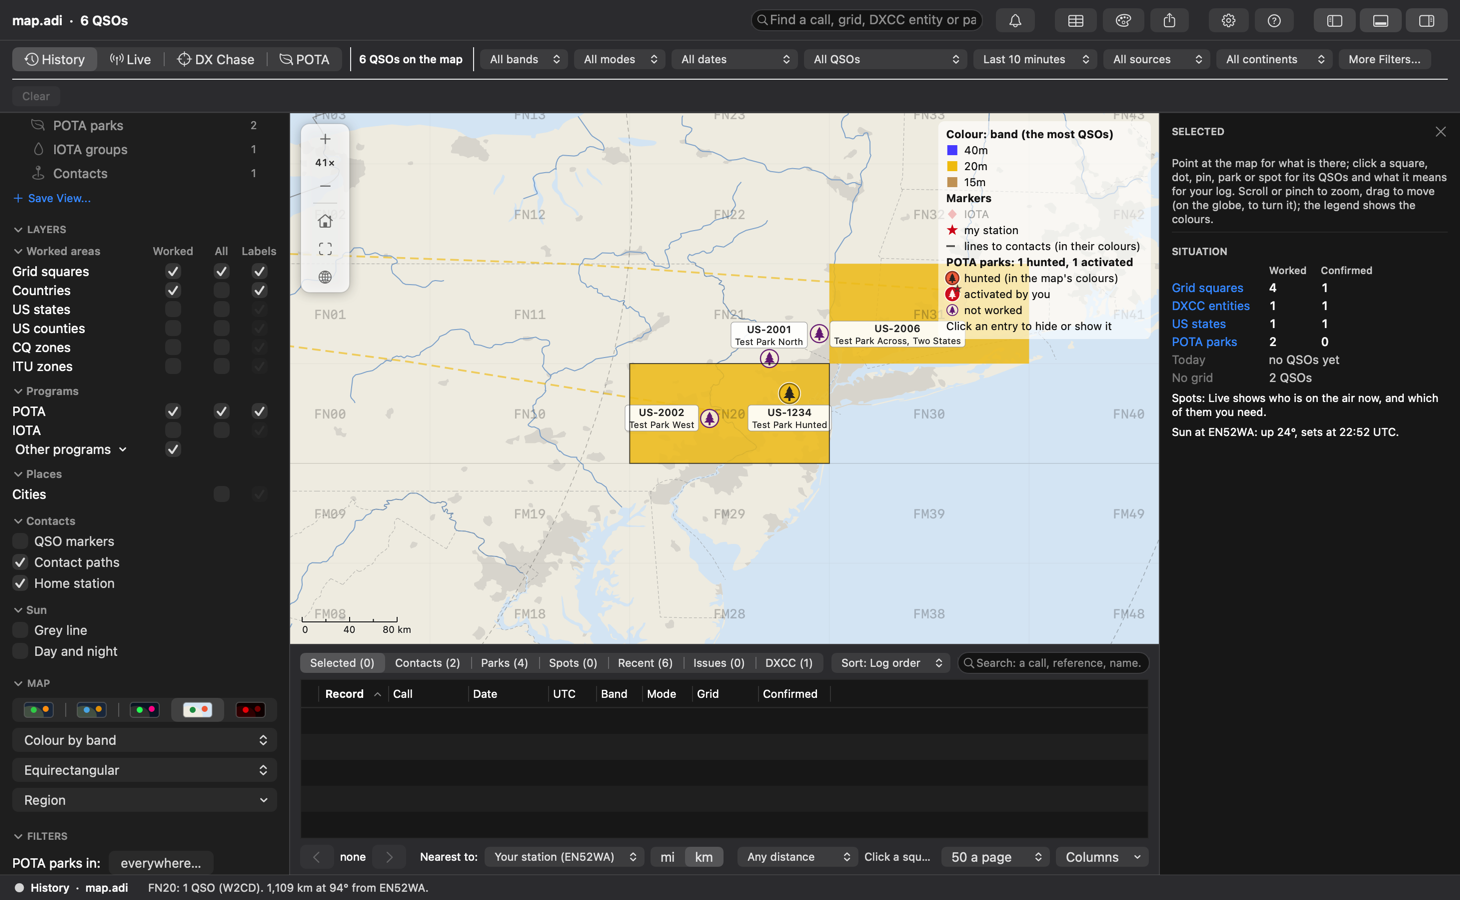
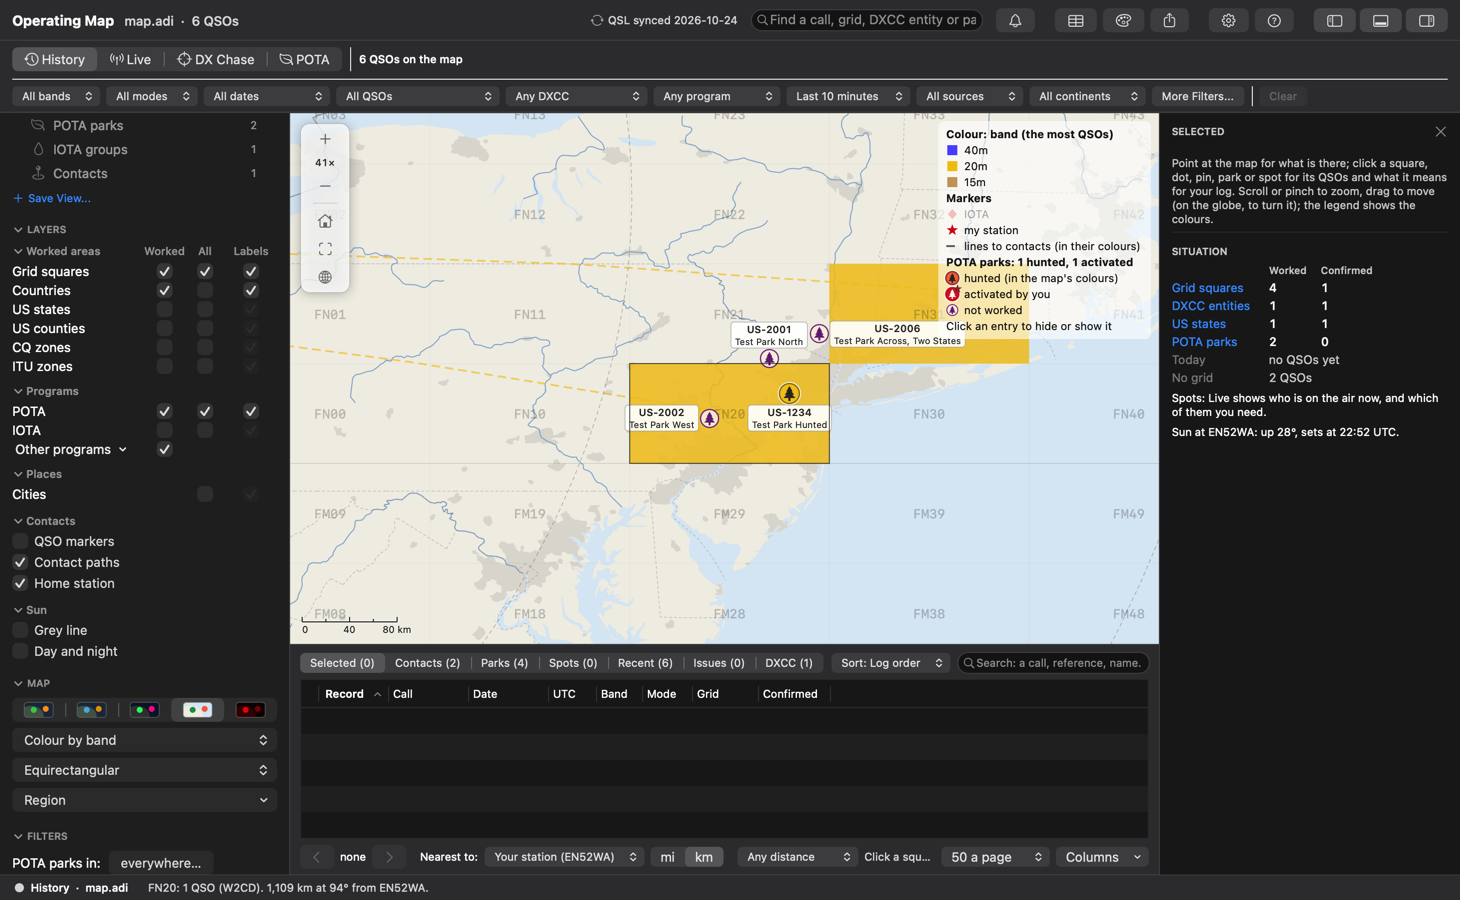
Map: title line and QSL synced in the header; Live's DXCC and Spots menus; Clear (n)
- The header says Operating Map, then the station, log and QSOs; QSL synced gives the latest
  confirmation download (LoTW, QRZ.com, eQSL), a click opening QSL Sync.
- Live's toolbar: a DXCC menu (the Quick View by what the spots mean for your DXCC) and a Spots
  menu (any program, POTA only, new POTA parks, plain DX only), both saying what they filter.
- Clear counts the filters on and lists them in its tooltip; in Live it clears the spots'
  program and source too.
- The prefix popups draw their title in the room the popup has (AppKit gives the item's own
  width), and are swapped in before their actions are set (a control's action is its cell's).

diff --git a/src/plugin/Map.mm b/src/plugin/Map.mm
@@ -12,6 +12,7 @@
 #import "PotaParks.h"
 #import "PluginHost.h"
 #import "Spots.h"
+#import "Uploads.h"
 #import "ToolWindow.h"
 #import <UniformTypeIdentifiers/UniformTypeIdentifiers.h>
 #include "adif_detail.h"
@@ -154,6 +155,8 @@ static NSAttributedString *treeMark(NSColor *color) {
     return t;
 }
 - (NSRect)drawTitle:(NSAttributedString *)title withFrame:(NSRect)frame inView:(NSView *)view {
+    // The frame is the item's own title's width: the prefix needs the room the popup has (less its arrows).
+    if (self.prefix.length && self.indexOfSelectedItem > 0) frame.size.width = std::max(frame.size.width, NSWidth(view.bounds) - frame.origin.x - 18);
     return [super drawTitle:[self shown:title] withFrame:frame inView:view];
 }
 - (NSSize)cellSize {
@@ -476,6 +479,8 @@ struct {
     NSButton *liveLabel = nil;  // the footer's live status, a dot of its colour; clicked, the feeds' state
     NSPopUpButton *continentPopup = nil;  // the toolbar's continent (one of More Filters' continents)
     NSPopUpButton *spotAgeBar = nil, *spotSourceBar = nil;  // Live's: how new the spots, from which source (as Sources and Filters)
+    NSPopUpButton *dxccBar = nil, *potaBar = nil;          // Live's: which DXCC needs (the Quick View), which program
+    NSButton *synced = nil;                                 // the header's last QSL Sync download, a click opens it
     NSStackView *chips = nil;             // the filters on that the toolbar doesn't show, each a tag that removes it
     NSButton *centerButton = nil;
     NSButton *greyLineBox = nil, *dayNightBox = nil;  // the sidebar's Sun boxes (Style Options has them too)
@@ -592,6 +597,8 @@ void fillBell();
 void fillBellMenu(NSMenu *menu);
 void fillHomeMenu(NSMenu *menu);
 void fillViewsMenu(NSMenu *menu);
+void fillSynced();
+void fillDxccPotaBars();
 int lensOfView(int view);
 void showList(const std::vector<size_t> &qsos, ADIFMapHit::Kind kind);
 void showListKind(int kind);
@@ -2067,7 +2074,19 @@ void refresh() {
         showWatchButton(ADIFMapHit());
         mw.actions.needsLayout = YES;
         std::string call = setting("stationCall");
-        mw.summaryLabel.stringValue = ADIFString((call.empty() ? "" : call + "  \u00B7  ") + documentName() + "  \u00B7  " + plural(mw.data.qsos.size(), "QSO"));
+        {  // the title line: what this is, then the station, the log and its QSOs
+            NSMutableAttributedString *line = [[NSMutableAttributedString alloc]
+                initWithString:T(@"Operating Map")
+                    attributes:@{NSFontAttributeName : [NSFont systemFontOfSize:NSFont.systemFontSize + 1 weight:NSFontWeightBold]}];
+            [line appendAttributedString:[[NSAttributedString alloc]
+                                             initWithString:ADIFString("   " + (call.empty() ? "" : call + "  \u00B7  ") + documentName() + "  \u00B7  " +
+                                                                       plural(mw.data.qsos.size(), "QSO"))
+                                                 attributes:@{NSFontAttributeName : [NSFont systemFontOfSize:NSFont.systemFontSize weight:NSFontWeightMedium],
+                                                              NSForegroundColorAttributeName : NSColor.secondaryLabelColor}]];
+            mw.summaryLabel.attributedStringValue = line;
+            mw.summaryLabel.toolTip = line.string;
+        }
+        fillSynced();
         if (!live()) {
             // History: the QSOs the map shows, and the dates they span.
             std::string first, last;
@@ -2327,10 +2346,26 @@ void fillFilterChips() {
 void updateFilterButton() {
     size_t n = placeKinds(savedPlaceFilter());
     mw.moreFilters.title = n ? [NSString stringWithFormat:T(@"More Filters (%zu)..."), n] : T(@"More Filters...");
-    // How many filters are on, on the bar too: the QSOs shown are not all of them, card open or not.
-    size_t on = n + (mw.band.indexOfSelectedItem > 0) + (mw.mode.indexOfSelectedItem > 0) + (mw.dates.indexOfSelectedItem > 0) +
-                (mw.confirmed.indexOfSelectedItem > 0);
-    mw.clearFilters.enabled = on > 0 || (live() && mw.spotLens > 0);
+    // Clear says how many filters are on, and its tooltip which, in a line ("20m · FT8 · New band").
+    std::vector<std::string> active;
+    for (NSPopUpButton *p : {mw.band, mw.mode})
+        if (p.indexOfSelectedItem > 0) active.push_back(ADIFStd(p.titleOfSelectedItem));
+    if (!live()) {
+        for (NSPopUpButton *p : {mw.dates, mw.confirmed})
+            if (p.indexOfSelectedItem > 0) active.push_back(ADIFStd(p.titleOfSelectedItem));
+    } else {
+        if (mw.spotLens > 0 && mw.quickRows && (size_t)mw.spotLens < mw.quickRows.rows.size()) active.push_back(mw.quickRows.rows[(size_t)mw.spotLens].title);
+        std::string program = setting("mapSpotsProgram");
+        if (!program.empty()) active.push_back(program == "-" ? tr("Plain DX only") : program);
+        if (!setting("mapSpotsHidden").empty() && mw.spotSourceBar.indexOfSelectedItem > 0) active.push_back(ADIFStd(mw.spotSourceBar.titleOfSelectedItem));
+    }
+    if (n) active.push_back(trp("{n} more filter", "{n} more filters", (long long)n));
+    std::string list;
+    for (const std::string &a : active) list += (list.empty() ? "" : "  \u00B7  ") + a;
+    mw.clearFilters.enabled = !active.empty();
+    mw.clearFilters.title = active.empty() ? T(@"Clear") : TF(@"Clear ({n})", @{@"n" : @(active.size())});
+    mw.clearFilters.toolTip = active.empty() ? T(@"Show every QSO again: all bands, modes, dates and places (and in Live, every spot)")
+                                             : ADIFString(trf("Clear: {filters}", {{"filters", list}}));
     fillContinentPopup();
     fillFilterChips();
 }
@@ -2800,6 +2835,7 @@ void refreshSpots() {
                                               mw.liveLabel.font);
         mw.liveLabel.toolTip = show ? ADIFString(spotfeeds::status()) : nil;  // each feed: what it did, and when
         [mw.spotAgeBar selectItemAtIndex:number("mapSpotsAge", 1, 2)];
+        fillDxccPotaBars();
         {  // the source: all, one, or "2 sources"
             std::string hidden = setting("mapSpotsHidden");
             std::vector<NSInteger> shown;
@@ -2814,7 +2850,7 @@ void refreshSpots() {
             }
         }
         fillQuickViews();
-        fillFilterChips();
+        updateFilterButton();  // Clear and the tags, as the spots' filters are
     }
     mw.view.legendSpotBands = spotBands;
     [mw.view setSpots:marks now:now maxAge:f.maxAge];
@@ -4502,7 +4538,7 @@ void syncControls() {
     mw.workflow.selectedSegment = wf;
     mw.spotsSection.hidden = wf < 1;
     mw.dates.hidden = mw.confirmed.hidden = wf >= 1;  // the spots don't follow them (a tag says when they're on)
-    mw.spotAgeBar.hidden = mw.spotSourceBar.hidden = wf < 1;
+    mw.spotAgeBar.hidden = mw.spotSourceBar.hidden = mw.dxccBar.hidden = mw.potaBar.hidden = wf < 1;
 
     mw.spotLens = wf >= 1 ? lensOfView(quickView()) : 0;
     applyViewFilters();
@@ -5193,6 +5229,36 @@ void findTyped() {
     [mw.findMenu popUpMenuPositioningItem:nil atLocation:NSMakePoint(0, NSMaxY(mw.findField.bounds) + 4) inView:mw.findField];
 }
 
+// The header's QSL Sync: when confirmations were last downloaded (the latest of the services),
+// a click opening QSL Sync.
+void fillSynced() {
+    if (!mw.synced) return;
+    std::string latest, tip;
+    for (const auto &[key, name] : std::vector<std::pair<const char *, const char *>>{
+             {"lastDownloadLoTW", "LoTW"}, {"lastDownloadQRZ", "QRZ.com"}, {"lastDownloadEQSL", "eQSL"}}) {
+        std::string at = setting(key);  // "YYYY-MM-DD HH:MM UTC"
+        latest = std::max(latest, at);
+        tip += std::string(tip.empty() ? "" : "\n") + name + ": " + (at.empty() ? tr("never") : at);
+    }
+    mw.synced.title = latest.empty() ? T(@"QSL: never synced") : TF(@"QSL synced {when}", @{@"when" : ADIFString(latest.substr(0, 10))});
+    mw.synced.toolTip = ADIFString(tr("Confirmations last downloaded (QSL Sync); click to open it") + "\n" + tip);
+}
+
+// Live's DXCC and POTA menus, as the Quick View and the spots' program are.
+void fillDxccPotaBars() {
+    if (!mw.dxccBar) return;
+    static const int kDxccLens[] = {0, 1, 2, 3, 4, 8};  // the menu's items: the Quick View each chooses
+    NSInteger at = 0;
+    for (NSInteger i = 0; i < (NSInteger)std::size(kDxccLens); ++i)
+        if (kDxccLens[i] == mw.spotLens) at = i;
+    [mw.dxccBar selectItemAtIndex:at];
+    std::string program = setting("mapSpotsProgram");
+    [mw.potaBar selectItemAtIndex:program == "-" ? 3 : program == "POTA" ? (mw.spotLens == 5 ? 2 : 1) : 0];
+    for (NSPopUpButton *p in @[ mw.dxccBar, mw.potaBar ]) [p invalidateIntrinsicContentSize];  // "DXCC: New band" is wider than "New band"
+    for (NSView *v = mw.dxccBar.superview; v; v = v.superview)
+        if ([v isKindOfClass:ADIFFlowView.class]) v.needsLayout = YES;
+}
+
 // ── The footer: what is under the pointer, and the workflow's state ──
 
 void showHover(const std::string &text) {
@@ -5379,6 +5445,35 @@ void cmdMap() {
             if (mw.spotAge) [mw.spotAge selectItemAtIndex:mw.spotAgeBar.indexOfSelectedItem];
             refreshSpots();
         });
+        mw.dxccBar = ADIFPopup(@[ @"Any DXCC", @"Needed on its band", @"New DXCC", @"New band", @"New mode", @"Worked before" ]);
+        mw.potaBar = ADIFPopup(@[ @"Any program", @"POTA only", @"New POTA parks", @"Plain DX only" ]);
+        for (NSPopUpButton *p in @[ mw.dxccBar, mw.potaBar ]) {  // "DXCC: New band", "Spots: POTA only" while they filter (before
+                                                                  // their actions: a control's action is its cell's)
+            NSMenu *items = p.menu;
+            ADIFPrefixPopUpCell *c = [[ADIFPrefixPopUpCell alloc] initTextCell:@"" pullsDown:NO];
+            p.cell = c;
+            c.menu = items;
+            c.prefix = p == mw.dxccBar ? T(@"DXCC:") : T(@"Spots:");
+            [c selectItemAtIndex:0];
+        }
+        mw.dxccBar.identifier = @"map.filter.dxccNeed";
+        mw.dxccBar.toolTip = T(@"The spots by what they mean for your DXCC (the Quick Views have them too)");
+        ADIFOnAction(mw.dxccBar, ^{
+            static const int kLens[] = {0, 1, 2, 3, 4, 8};
+            NSInteger i = std::clamp<NSInteger>(mw.dxccBar.indexOfSelectedItem, 0, 5);
+            chooseQuickView(kLens[i]);
+        });
+        mw.potaBar.identifier = @"map.filter.pota";
+        mw.potaBar.toolTip = T(@"POTA's spots: all of them with the rest, only POTA's, only parks you haven't worked, or none (plain DX spots, "
+                               @"no program); as Sources and Filters' program");
+        ADIFOnAction(mw.potaBar, ^{
+            NSInteger i = mw.potaBar.indexOfSelectedItem;
+            setSetting("mapSpotsProgram", i == 1 || i == 2 ? "POTA" : i == 3 ? "-" : "");
+            fillSpotsPopover();
+            if (i == 2) chooseQuickView(5);  // New POTA parks
+            else if (mw.spotLens == 5 || mw.spotLens == 6) chooseQuickView(0);
+            else refreshSpots();
+        });
         mw.spotSourceBar = ADIFPopup(@[ @"All sources" ]);
         for (adif::SpotSource src : kSpotSources) [mw.spotSourceBar addItemWithTitle:ADIFString(tr(adif::spotSourceName(src)))];
         mw.spotSourceBar.identifier = @"map.filter.source";
@@ -5523,7 +5618,13 @@ void cmdMap() {
         mw.moreFilters.identifier = @"map.filter.more";
         mw.clearFilters = smallButton(@"Clear", @"Show every QSO again: all bands, modes, dates and places (and in Live, every spot)", ^{
             for (NSPopUpButton *p in @[ mw.band, mw.mode, mw.dates, mw.confirmed ]) [p selectItemAtIndex:0];
-            if (live() && mw.spotLens > 0) chooseQuickView(0);
+            if (live()) {  // every spot again: any program and source too
+                setSetting("mapSpotsProgram", "");
+                setSetting("mapSpotsHidden", "");
+                fillSpotsPopover();
+                if (mw.spotLens > 0) chooseQuickView(0);
+                else refreshSpots();
+            }
             if (mw.viewSetConfirmed) {  // Needs confirmation's filter gone: All QSOs
                 mw.viewSetConfirmed = false;
                 setSetting("mapQuickView", "0");
@@ -5944,6 +6045,15 @@ void cmdMap() {
         mw.bell.menu = mw.bellMenu;  // right-click too
         ADIFOnAction(mw.bell, ^{ [mw.bellMenu popUpMenuPositioningItem:nil atLocation:NSMakePoint(0, NSMaxY(mw.bell.bounds) + 4) inView:mw.bell]; });
         fillBell();
+        mw.synced = [NSButton buttonWithTitle:@"" target:nil action:nil];
+        mw.synced.bordered = NO;
+        mw.synced.font = [NSFont systemFontOfSize:NSFont.smallSystemFontSize];
+        mw.synced.contentTintColor = NSColor.secondaryLabelColor;
+        mw.synced.image = [NSImage imageWithSystemSymbolName:@"arrow.triangle.2.circlepath" accessibilityDescription:nil];
+        mw.synced.imagePosition = NSImageLeading;
+        mw.synced.identifier = @"map.synced";
+        ADIFOnAction(mw.synced, ^{ uploads::cmdQslSync(); });
+        [mw.synced setContentCompressionResistancePriority:NSLayoutPriorityDefaultLow forOrientation:NSLayoutConstraintOrientationHorizontal];
         mw.findField = [[NSSearchField alloc] initWithFrame:NSZeroRect];
         mw.findField.placeholderString = T(@"Find a call, grid, DXCC entity or park");
         mw.findField.toolTip = T(@"Find on the map: a call (your QSOs with it, or its spot), a grid square, a DXCC entity you worked, a POTA park "
@@ -5959,8 +6069,11 @@ void cmdMap() {
         mw.findMenu.delegate = mw.listRows;
         mw.findField.menu = mw.findMenu;  // right-click: the results too
         ADIFOnAction(mw.findField, ^{ findTyped(); });
-        for (NSView *v in @[ mw.findField, mw.bell, logTable, styleButton, save, settings, help, mw.paneToggle[0], mw.paneToggle[1], mw.paneToggle[2] ])
+        for (NSView *v in @[ mw.synced, mw.findField, mw.bell, logTable, styleButton, save, settings, help, mw.paneToggle[0], mw.paneToggle[1],
+                             mw.paneToggle[2] ])
             [header addView:v inGravity:NSStackViewGravityTrailing];
+        [header setVisibilityPriority:NSStackViewVisibilityPriorityDetachOnlyIfNecessary forView:mw.synced];  // the first to go when narrow
+        fillSynced();
         [header setCustomSpacing:14 afterView:mw.findField];
         [header setCustomSpacing:20 afterView:mw.bell];
         [header setCustomSpacing:6 afterView:logTable];
@@ -5990,7 +6103,8 @@ void cmdMap() {
         mw.chips = [[NSStackView alloc] initWithFrame:NSZeroRect];
         mw.chips.spacing = 4;
         mw.chips.identifier = @"map.chips";
-        for (NSControl *c in @[ mw.band, mw.mode, mw.dates, mw.confirmed, mw.spotAgeBar, mw.spotSourceBar, mw.continentPopup, mw.moreFilters, mw.clearFilters ]) {
+        for (NSControl *c in @[ mw.band, mw.mode, mw.dates, mw.confirmed, mw.dxccBar, mw.potaBar, mw.spotAgeBar, mw.spotSourceBar, mw.continentPopup, mw.moreFilters,
+                                mw.clearFilters ]) {
             c.controlSize = NSControlSizeSmall;
             c.font = [NSFont systemFontOfSize:NSFont.smallSystemFontSize];
         }
@@ -6004,7 +6118,7 @@ void cmdMap() {
         toolbar.gap = 15;
         toolbar.centred = YES;
         toolbar.identifier = @"map.toolbar";
-        for (NSView *v in @[ mw.workflow, mw.scopeLabel, cluster(@[ mw.band, mw.mode, mw.dates, mw.confirmed, mw.spotAgeBar, mw.spotSourceBar, mw.continentPopup, mw.moreFilters ]),
+        for (NSView *v in @[ mw.workflow, mw.scopeLabel, cluster(@[ mw.band, mw.mode, mw.dates, mw.confirmed, mw.dxccBar, mw.potaBar, mw.spotAgeBar, mw.spotSourceBar, mw.continentPopup, mw.moreFilters ]),
                              cluster(@[ mw.chips, mw.clearFilters ]) ])
             [toolbar addSubview:v];
 

diff --git a/tests/host_harness.mm b/tests/host_harness.mm
@@ -4894,8 +4894,22 @@ int main(int argc, char **argv) {
                 [bands selectItemWithTitle:@"15m"];
                 [bands sendAction:bands.action to:bands.target];
                 CHECK([bands.cell respondsToSelector:@selector(prefix)] && [[(id)bands.cell prefix] isEqualToString:@"Band:"] &&
-                          bands.cell.cellSize.width > allWide,
-                      "the band menu says Band: while it filters (%.0f, was %.0f)", bands.cell.cellSize.width, allWide);
+                          bands.cell.cellSize.width > allWide && [clearButton.title isEqualToString:@"Clear (1)"] &&
+                          [clearButton.toolTip isEqualToString:@"Clear: 15m"],
+                      "the band menu says Band: while it filters (%.0f, was %.0f); %s, %s", bands.cell.cellSize.width, allWide, clearButton.title.UTF8String,
+                      clearButton.toolTip.UTF8String);
+                {  // The header's title line, and when QSL Sync last downloaded (a click opens it).
+                    NSTextField *title = (NSTextField *)viewWithIdentifier(mapw.contentView, @"map.summary");
+                    NSButton *synced = (NSButton *)viewWithIdentifier(mapw.contentView, @"map.synced");
+                    [synced performClick:nil];
+                    pump(0.2);
+                    NSWindow *sync = nil;
+                    for (NSWindow *w in NSApp.windows)
+                        if (w.visible && [w.title isEqualToString:@"QSL Sync"]) sync = w;
+                    CHECK([title.stringValue hasPrefix:@"Operating Map"] && [synced.title hasPrefix:@"QSL"] && sync, "the header: %s; %s opens QSL Sync",
+                          title.stringValue.UTF8String, synced.title.UTF8String);
+                    [sync orderOut:nil];
+                }
                 CHECK(clearButton.enabled && [scope.stringValue hasPrefix:@"1 QSO on the map"], "one filter on: Clear enabled, %s", scope.stringValue.UTF8String);
                 [bands selectItemAtIndex:0];
                 [bands sendAction:bands.action to:bands.target];
@@ -5673,6 +5687,27 @@ int main(int argc, char **argv) {
                     };
                     listKind.selectedSegment = 3;  // the spots' list
                     [listKind sendAction:listKind.action to:listKind.target];
+                    {  // Live's toolbar: its DXCC menu chooses the Quick View; its program menu keeps POTA's spots, or none.
+                        NSPopUpButton *dxccMenu = (NSPopUpButton *)viewWithIdentifier(mapw.contentView, @"map.filter.dxccNeed");
+                        NSPopUpButton *potaMenu = (NSPopUpButton *)viewWithIdentifier(mapw.contentView, @"map.filter.pota");
+                        [dxccMenu selectItemWithTitle:@"New band"];
+                        [dxccMenu sendAction:dxccMenu.action to:dxccMenu.target];
+                        pump(0.3);
+                        bool newBand = views.selectedRow == 3 && [rowsTable.dataSource numberOfRowsInTableView:rowsTable] == 1;
+                        [dxccMenu selectItemAtIndex:0];
+                        [dxccMenu sendAction:dxccMenu.action to:dxccMenu.target];
+                        [potaMenu selectItemWithTitle:@"POTA only"];
+                        [potaMenu sendAction:potaMenu.action to:potaMenu.target];
+                        pump(0.3);
+                        bool potaOnly = [rowsTable.dataSource numberOfRowsInTableView:rowsTable] == 1 && [cell(rowsTable, 0, @"call") isEqualToString:@"K9ABC"];
+                        NSString *clearTitle = ((NSButton *)viewWithIdentifier(mapw.contentView, @"map.filter.clear")).title;
+                        [potaMenu selectItemAtIndex:0];
+                        [potaMenu sendAction:potaMenu.action to:potaMenu.target];
+                        pump(0.3);
+                        CHECK(!dxccMenu.hidden && newBand && potaOnly && [clearTitle isEqualToString:@"Clear (1)"] && views.selectedRow == 0 &&
+                                  [rowsTable.dataSource numberOfRowsInTableView:rowsTable] > 1,
+                              "Live's DXCC menu (New band: %d) and program menu (POTA only: %d; %s)", newBand, potaOnly, clearTitle.UTF8String);
+                    }
                     {  // Live's toolbar: when the feeds last brought spots; how new and from which source.
                         NSPopUpButton *age = (NSPopUpButton *)viewWithIdentifier(mapw.contentView, @"map.filter.age");
                         NSPopUpButton *source = (NSPopUpButton *)viewWithIdentifier(mapw.contentView, @"map.filter.source");

diff --git a/docs/USER_GUIDE.md b/docs/USER_GUIDE.md
@@ -546,7 +546,9 @@ countries and parks you worked shaded and the grey line on.
 
 The window, from the top:
 
-- **The header**: your callsign, the log and its QSOs; at the right, **Find** (a call, a grid
+- **The header**: **Operating Map**, your callsign, the log and its QSOs; at the right, when
+  you last downloaded confirmations (**QSL synced**, the latest of LoTW, QRZ.com and eQSL; a
+  click opens QSL Sync), **Find** (a call, a grid
   square, a DXCC entity or a POTA park: Return chooses it on the map, or offers a menu when
   several match; a call chooses your QSOs with it, or its spot), the **bell** (see
   [The watch list](#the-watch-list)), **Log Table** (the
@@ -557,8 +559,11 @@ The window, from the top:
 - **The toolbar**: **History**, **Live**, **DX Chase** or **POTA**; what the map shows (in History, the QSOs and the
   dates they span; in Live, the stations spotted and when a feed last brought spots); the
   filters (band and mode, which say **Band:** and **Mode:** while they filter; in History the
-  dates and confirmation; in Live how new the spots are and from which source, as in
-  Sources and Filters; and the continent), **More Filters…**, and **Clear**. A filter the
+  dates and confirmation; in Live **DXCC** (which spots by what they mean for your DXCC, as
+  the Quick Views), **Spots** (any program, POTA only, new POTA parks, or plain DX only), how
+  new the spots are and from which source, as in Sources and Filters; and the continent),
+  **More Filters…**, and **Clear**, which says how many filters are on and lists them in its
+  tooltip. A filter the
   toolbar can't show (a place chosen in More Filters; in Live, the dates and confirmation,
   which spots don't follow, and the Quick View) is a tag beside it: click the tag to remove
   that filter.

diff --git a/CHANGELOG.md b/CHANGELOG.md
@@ -52,6 +52,10 @@ Versions before 0.8.0 were development builds and were not published.
   **Needed on its band** (a new DXCC or a new band), **New DXCC**, **New band**, **New
   mode**, **New POTA parks**, **POTA activators**, **My watch list** and **Worked before**,
   each with its count; choosing one shows only those.
+- **Map → header and toolbar**: the header says **Operating Map** and when confirmations were
+  last downloaded (a click opens QSL Sync). Live's toolbar adds a **DXCC** menu (the spots by
+  what they mean for your DXCC) and a **Spots** menu (any program, POTA only, new POTA parks,
+  plain DX only). **Clear** counts the filters that are on and lists them in its tooltip.
 - **Map → toolbar**: in Live, when a feed last brought spots ("updated 14:32 UTC"), and menus
   for how new the spots are and from which source; the band and mode menus say **Band:** and
   **Mode:** while they filter. When a click on the map switches the list to Selected, **← Back
